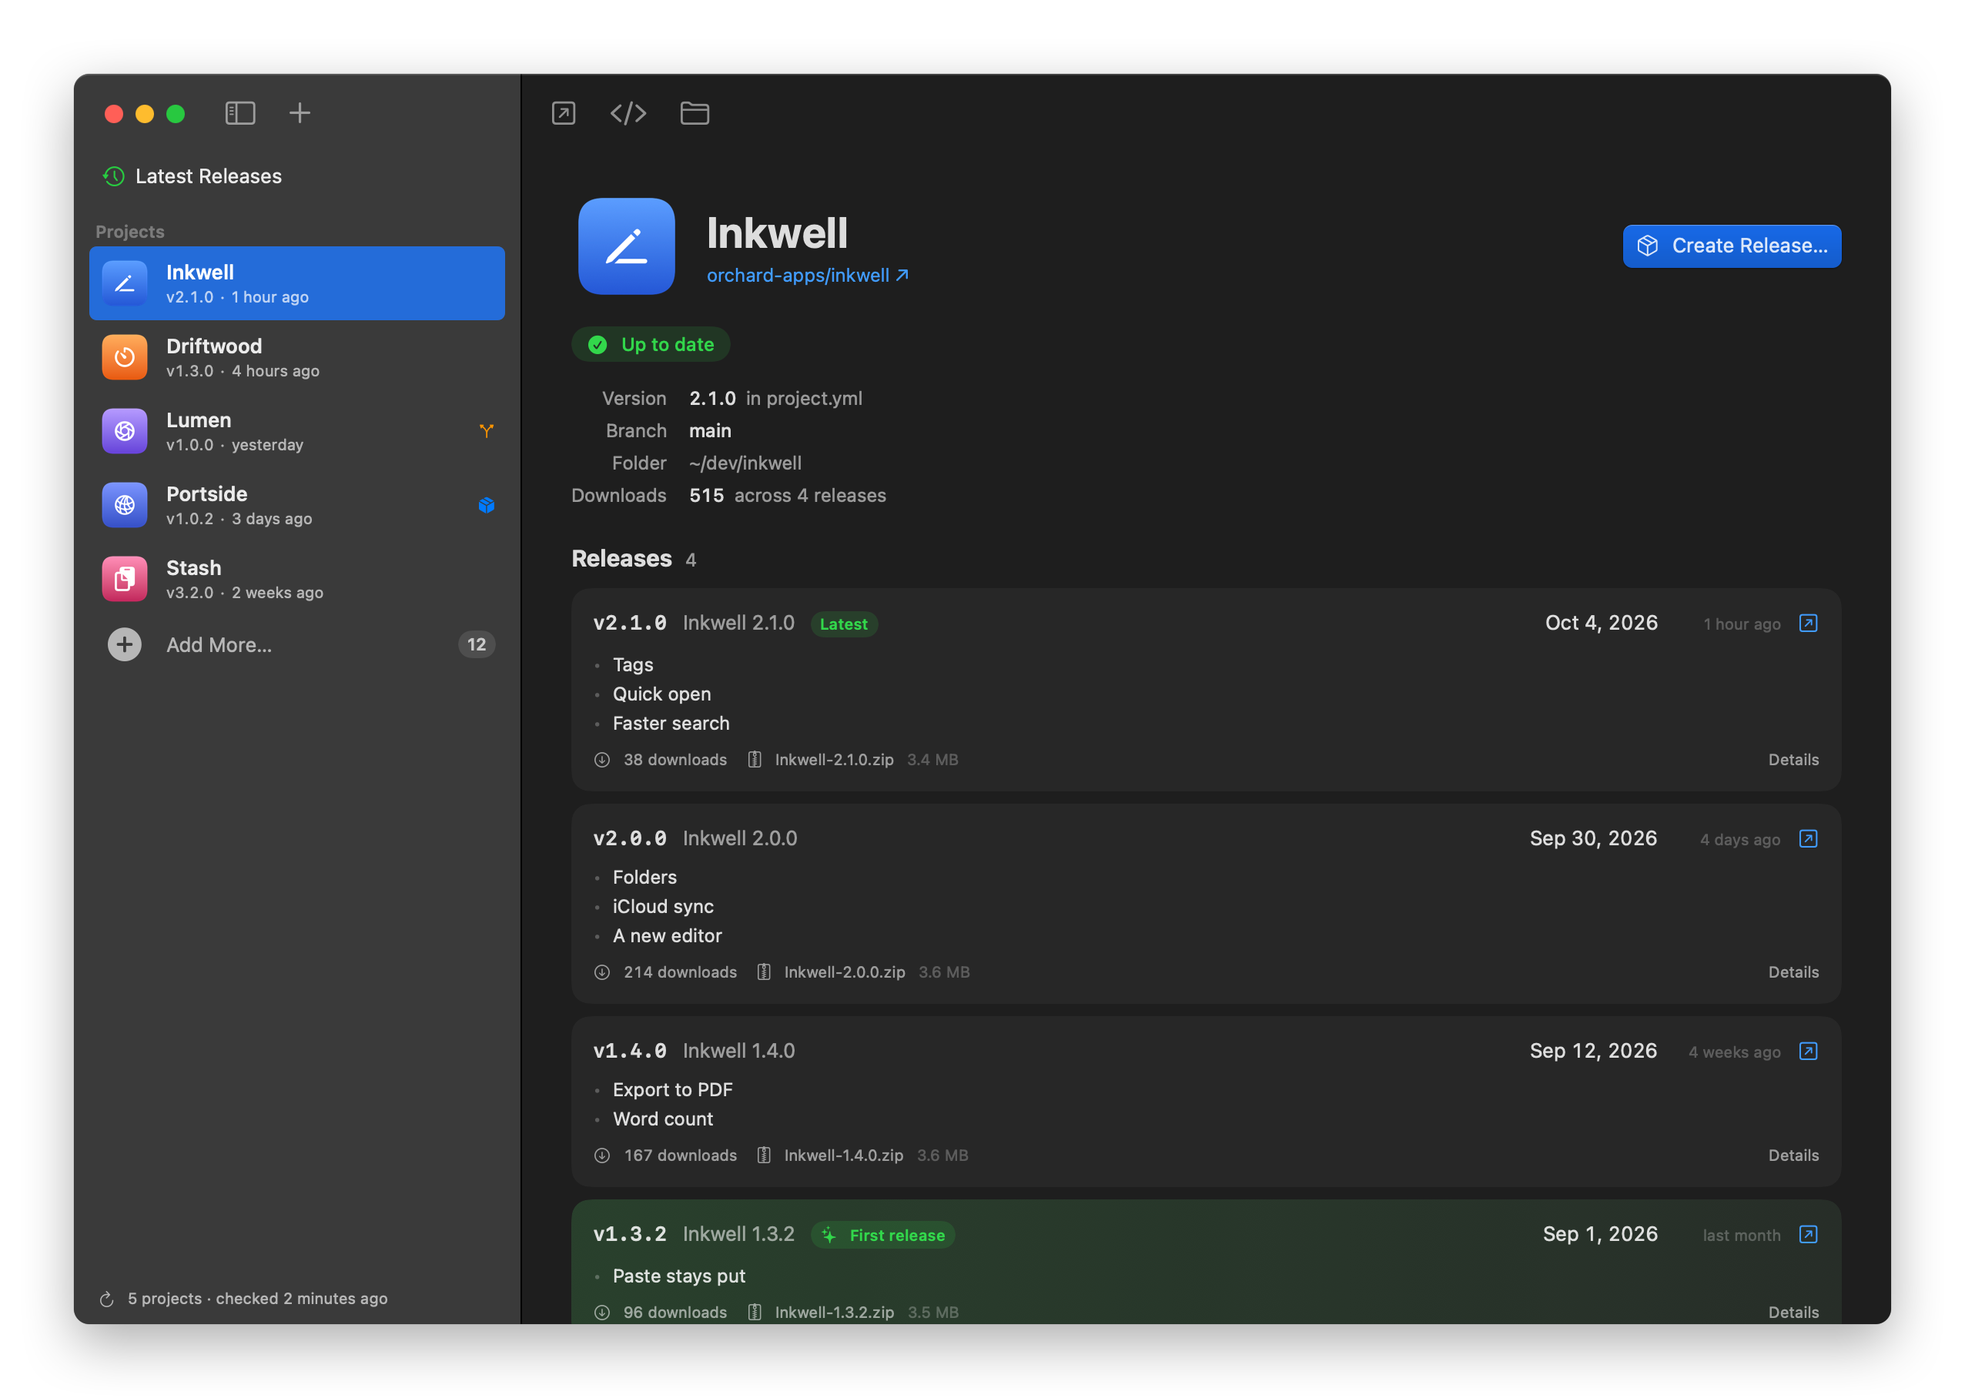
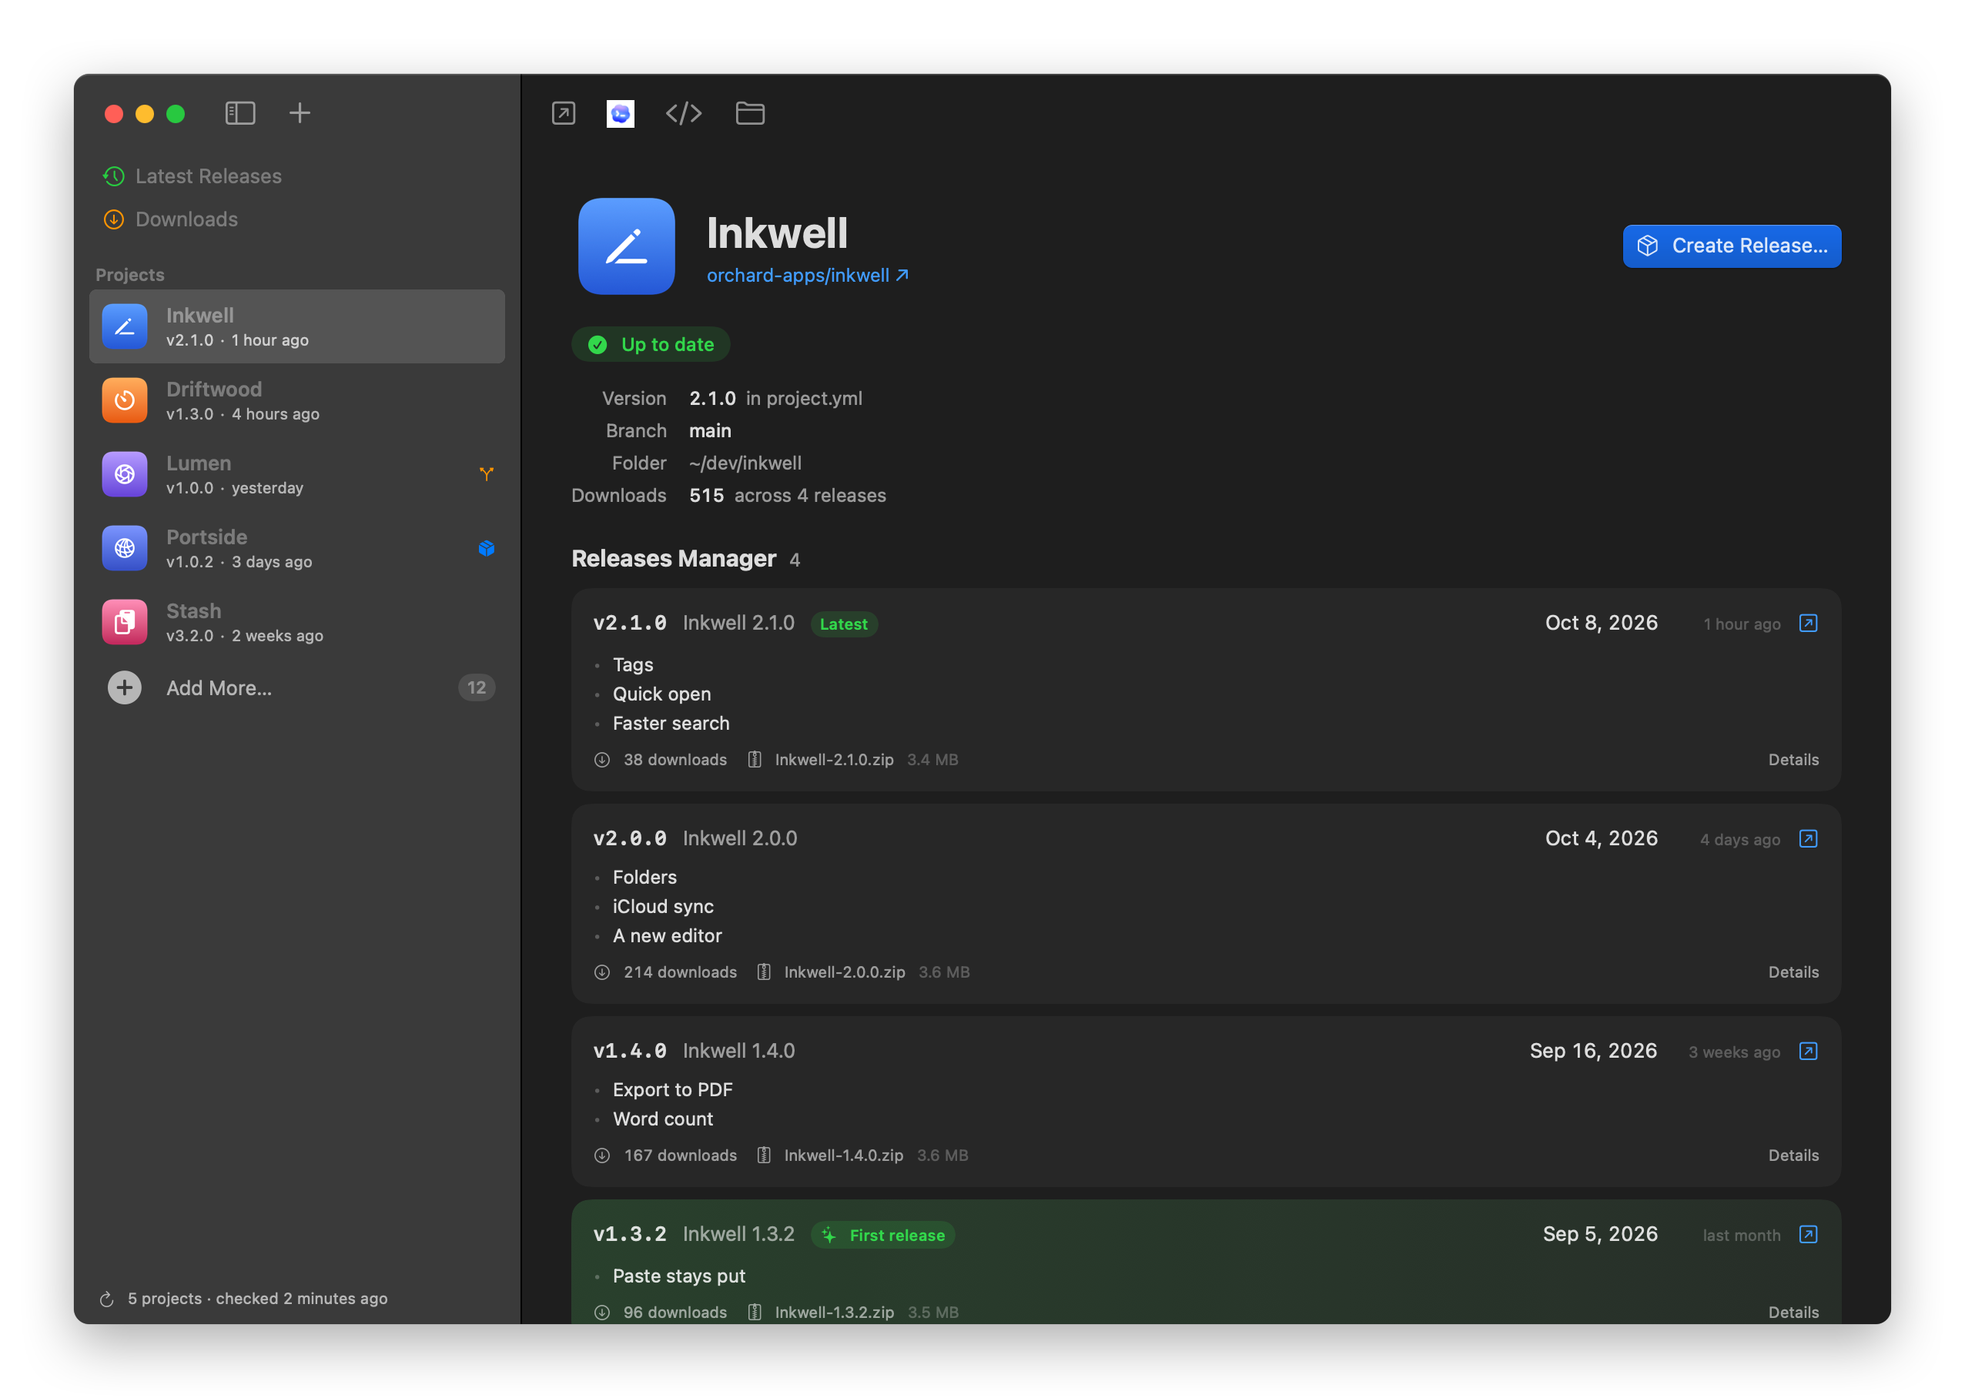
Rename app to Releases Manager

diff --git a/Sources/ReleasesCore/Downloads.swift b/Sources/ReleasesCore/Downloads.swift
@@ -1,6 +1,6 @@
 import Foundation
 
-/// A project's downloads on one day: every release added up, the last time Releases looked that day.
+/// A project's downloads on one day: every release added up, the last time Releases Manager looked that day.
 public struct DownloadSample: Codable, Hashable, Sendable {
   public var date: Date
   public var downloads: Int
@@ -16,7 +16,7 @@ public struct DownloadPoint: Hashable, Sendable {
   /// The start of the day.
   public var day: Date
   public var downloads: Int
-  /// Before Releases saved its first count: a straight line from the launch, at zero, to that count.
+  /// Before Releases Manager saved its first count: a straight line from the launch, at zero, to that count.
   public var isEstimate: Bool
 
   public init(day: Date, downloads: Int, isEstimate: Bool) {
@@ -87,20 +87,20 @@ extension ProjectSnapshot {
     releases.compactMap { $0.isDraft ? nil : $0.publishedAt }.min()
   }
 
-  /// The counts Releases saved, oldest first, or the current one when it hasn't saved any yet.
+  /// The counts Releases Manager saved, oldest first, or the current one when it hasn't saved any yet.
   var downloadCounts: [DownloadSample] {
     if let history = project.downloadHistory, !history.isEmpty { return history }
     guard !releases.isEmpty else { return [] }
     return [DownloadSample(date: project.releasesFetchedAt ?? .now, downloads: totalDownloads)]
   }
 
-  /// The downloads so far at `date`. Nil after the launch but before the first count Releases saved.
+  /// The downloads so far at `date`. Nil after the launch but before the first count Releases Manager saved.
   public func downloads(at date: Date) -> Int? {
     guard let start = downloadsStart, date > start else { return 0 }
     return downloadCounts.last { $0.date <= date }?.downloads
   }
 
-  /// The downloads since `date`, or nil when Releases doesn't know how many there were back then.
+  /// The downloads since `date`, or nil when Releases Manager doesn't know how many there were back then.
   public func downloads(since date: Date) -> Int? {
     downloads(at: date).map { max(totalDownloads - $0, 0) }
   }
@@ -124,12 +124,12 @@ extension [ProjectSnapshot] {
     reduce(0) { $0 + $1.totalDownloads }
   }
 
-  /// When Releases saved its first download count.
+  /// When Releases Manager saved its first download count.
   public var downloadsTrackedSince: Date? {
     compactMap { $0.project.downloadHistory?.first?.date }.min()
   }
 
-  /// The downloads since `date`, or nil when Releases doesn't know how many a project had back then.
+  /// The downloads since `date`, or nil when Releases Manager doesn't know how many a project had back then.
   public func downloads(since date: Date) -> Int? {
     var total = 0
     for project in self {

diff --git a/Sources/ReleasesCLI/Commands.swift b/Sources/ReleasesCLI/Commands.swift
@@ -1,7 +1,7 @@
 import Foundation
 
 enum Commands {
-  static let version = "1.5.0"
+  static let version = "1.6.0"
 
   static let json = Option(name: "--json", help: "Print JSON instead of text.")
   static let refresh = Option(name: "--refresh", help: "Fetch the releases from GitHub even if they were fetched recently.")
@@ -158,7 +158,7 @@ enum Commands {
     ),
     CommandSpec(
       name: "rename",
-      summary: "Give a project another name in Releases. The folder and the app stay as they are.",
+      summary: "Give a project another name in Releases Manager. The folder and the app stay as they are.",
       usage: "releases rename <project> <name> [--reset] [--json]",
       options: [
         Option(name: "--reset", help: "Go back to the name read from the folder."),
@@ -217,7 +217,7 @@ enum Commands {
       Every command accepts --help and --json.
 
       Get started:
-        releases add ~/dev/soundscape      Track a project.
+        releases add ~/dev/tranquillity-maker      Track a project.
         releases list                      See every project and its latest release.
         releases list --waiting            See the projects waiting to ship, the most commits first.
         releases prompt --check --codex   Have an agent check which of them need a release.
@@ -225,13 +225,13 @@ enum Commands {
         releases recent --first            See when each app launched.
         releases downloads                 See how many times each app was downloaded.
         releases discover                  See the apps on this Mac that aren't released yet.
-        releases show soundscape           See all the releases of one project.
-        releases prompt soundscape --bump minor --codex
+        releases show tranquillity-maker           See all the releases of one project.
+        releases prompt tranquillity-maker --bump minor --codex
 
       For agents:
         releases help --json               Every command and option, as JSON.
         releases capabilities --json       What releases can do, and what changed.
-        releases open soundscape --release --bump minor
+        releases open tranquillity-maker --release --bump minor
                                            Show the Create Release sheet in the app, for a human to review.
         Errors go to stderr and exit with 1. The app picks up every change to the list right away.
       """

diff --git a/Sources/ReleasesCLI/CapabilitiesManifest.swift b/Sources/ReleasesCLI/CapabilitiesManifest.swift
@@ -26,7 +26,7 @@ struct CapabilitiesManifest: Encodable {
     capabilities: [
       Capability(
         description: "Track a project folder and list its GitHub releases",
-        command: "releases add ~/dev/soundscape"
+        command: "releases add ~/dev/tranquillity-maker"
       ),
       Capability(
         description: "See which projects have commits or a newer version waiting to ship",
@@ -54,11 +54,11 @@ struct CapabilitiesManifest: Encodable {
       ),
       Capability(
         description: "Print the release prompt for a project, or open it in Codex",
-        command: "releases prompt soundscape --bump minor --codex"
+        command: "releases prompt tranquillity-maker --bump minor --codex"
       ),
       Capability(
-        description: "Show a project in Releases, open it in Codex with --codex, or open its Create Release sheet",
-        command: "releases open soundscape --release --bump minor"
+        description: "Show a project in Releases Manager, open it in Codex with --codex, or open its Create Release sheet",
+        command: "releases open tranquillity-maker --release --bump minor"
       ),
       Capability(
         description: "Learn every command and option as JSON for agents",
@@ -66,6 +66,7 @@ struct CapabilitiesManifest: Encodable {
       )
     ],
     changelog: [
+      Release(version: "1.6.0", date: "2026-10-08", changes: ["Renamed the app to Releases Manager. Existing commands and saved data still work."]),
       Release(
         version: "1.5.0",
         date: "2026-10-07",
@@ -85,7 +86,7 @@ struct CapabilitiesManifest: Encodable {
         version: "1.3.0",
         date: "2026-10-01",
         changes: [
-          "New releases rename to give a project another name in Releases.",
+          "New releases rename to give a project another name in Releases Manager.",
           "releases open --github-desktop opens the folder in GitHub Desktop."
         ]
       ),

diff --git a/Sources/ReleasesApp/DownloadsView.swift b/Sources/ReleasesApp/DownloadsView.swift
@@ -68,9 +68,9 @@ struct DownloadsView: View {
   private func weekHelp(_ released: [ProjectSnapshot]) -> String {
     guard let since = released.downloadsTrackedSince,
           let known = Calendar.current.date(byAdding: .day, value: 7, to: since) else {
-      return "Releases saves the downloads every day, and knows the last 7 days after a week."
+      return "Releases Manager saves the downloads every day, and knows the last 7 days after a week."
     }
-    return "Releases started saving the downloads on \(since.formatted(.dateTime.month(.wide).day())), so it knows the last 7 days from \(known.formatted(.dateTime.month(.wide).day()))."
+    return "Releases Manager started saving the downloads on \(since.formatted(.dateTime.month(.wide).day())), so it knows the last 7 days from \(known.formatted(.dateTime.month(.wide).day()))."
   }
 
   private func chart(_ released: [ProjectSnapshot], series: [DownloadSeries], focused: String?) -> some View {
@@ -118,7 +118,7 @@ struct DownloadsView: View {
     }
     if series.total.contains(where: \.isEstimate) {
       let since = released.downloadsTrackedSince.map { ", since \($0.formatted(.dateTime.month(.wide).day()))" } ?? ""
-      sentences.append("GitHub only keeps the total so far, so Releases saves it every day\(since). The shaded days before that are an estimate, spread evenly from each launch.")
+      sentences.append("GitHub only keeps the total so far, so Releases Manager saves it every day\(since). The shaded days before that are an estimate, spread evenly from each launch.")
     }
     return sentences.joined(separator: " ")
   }

diff --git a/Sources/ReleasesCLI/Output.swift b/Sources/ReleasesCLI/Output.swift
@@ -139,7 +139,7 @@ enum Output {
     }
     columns(rows)
     if shown.contains(where: { days[$0].isEstimate }) {
-      hint("~ is an estimate. GitHub only keeps the total so far, so the days before Releases saved its first count are spread evenly from each launch.")
+      hint("~ is an estimate. GitHub only keeps the total so far, so the days before Releases Manager saved its first count are spread evenly from each launch.")
     }
     if total.count > shown.count {
       hint("Showing the last \(shown.count) of \(total.count) days. Use --json to see them all.")
@@ -296,7 +296,7 @@ struct TimelineJSON: Encodable {
 /// The JSON shape of `releases downloads`.
 struct DownloadsJSON: Encodable {
   var total: Int
-  /// Nil until Releases has a count from a week ago for every project.
+  /// Nil until Releases Manager has a count from a week ago for every project.
   var lastSevenDays: Int?
   var trackedSince: Date?
   var projects: [ProjectDownloadsJSON]
@@ -372,7 +372,7 @@ struct ProjectDownloadsJSON: Encodable {
 /// The JSON shape of a project, flat enough for agents and scripts.
 struct ProjectJSON: Encodable {
   var name: String
-  /// The name read from the folder, when the project has another name in Releases.
+  /// The name read from the folder, when the project has another name in Releases Manager.
   var detectedName: String?
   var path: String
   var isTracked: Bool

diff --git a/Sources/ReleasesApp/ProjectDetailView.swift b/Sources/ReleasesApp/ProjectDetailView.swift
@@ -52,7 +52,7 @@ private struct FoundBanner: View {
       VStack(alignment: .leading, spacing: 2) {
         Text("Not in your list yet")
           .font(.headline)
-        Text("Releases found it in \(folder). Add it to keep an eye on its releases, or hide it if you won't ship it.")
+        Text("Releases Manager found it in \(folder). Add it to keep an eye on its releases, or hide it if you won't ship it.")
           .font(.callout)
           .foregroundStyle(.secondary)
           .fixedSize(horizontal: false, vertical: true)
@@ -198,7 +198,7 @@ private struct Header: View {
   }
 }
 
-/// The project's name. Double-click it to give the project another name, in Releases only.
+/// The project's name. Double-click it to give the project another name, in Releases Manager only.
 private struct ProjectName: View {
   @Environment(AppModel.self) private var model
   let snapshot: ProjectSnapshot
@@ -234,7 +234,7 @@ private struct ProjectName: View {
 
   private var help: String {
     guard canRename else { return "" }
-    guard snapshot.project.displayName != nil else { return "Double-click to rename it in Releases" }
+    guard snapshot.project.displayName != nil else { return "Double-click to rename it in Releases Manager" }
     return "Double-click to rename it. Clear the name to go back to \"\(snapshot.local.name)\"."
   }
 

diff --git a/Sources/ReleasesCLI/ReleasesCommand.swift b/Sources/ReleasesCLI/ReleasesCommand.swift
@@ -220,7 +220,7 @@ struct ReleasesCommand {
     Output.downloads(released, weekAgo: weekAgo)
     reportFetchErrors(snapshots)
     if released.downloads(since: weekAgo) == nil, let since = released.downloadsTrackedSince {
-      Output.hint("Releases saves the downloads every day it fetches them, since \(Output.date(since)). The last 7 days fill in a week after that.")
+      Output.hint("Releases Manager saves the downloads every day it fetches them, since \(Output.date(since)). The last 7 days fill in a week after that.")
     } else {
       Output.hint("Run 'releases downloads <project>' to see each release.")
     }
@@ -445,7 +445,7 @@ struct ReleasesCommand {
     guard let identifier = options.positionals.first else {
       guard targets.isEmpty, !wantsRelease else { throw CLIError.missingProject(command: "open") }
       try AppLink.home.open()
-      try report(options, OpenJSON(opened: "app", project: nil, path: nil, url: AppLink.home.url), "Opened Releases.")
+      try report(options, OpenJSON(opened: "app", project: nil, path: nil, url: AppLink.home.url), "Opened Releases Manager.")
       return
     }
 

diff --git a/Sources/ReleasesCLI/Arguments.swift b/Sources/ReleasesCLI/Arguments.swift
@@ -103,9 +103,9 @@ enum CLIError: LocalizedError {
   var errorDescription: String? {
     switch self {
     case .missingProject(let command):
-      "Add a project name. Example: releases \(command) soundscape"
+      "Add a project name. Example: releases \(command) tranquillity-maker"
     case .missingFolder:
-      "Add a folder. Example: releases add ~/dev/soundscape"
+      "Add a folder. Example: releases add ~/dev/tranquillity-maker"
     case .unknownCommand(let command):
       "Unknown command '\(command)'. Run 'releases help' to see the commands."
     case .unknownOption(let option, let command):
@@ -123,7 +123,7 @@ enum CLIError: LocalizedError {
     case .couldNotOpen:
       "macOS couldn't open it."
     case .missingName:
-      "Add the new name, or --reset. Example: releases rename factorylog \"Factory Log\""
+      "Add the new name, or --reset. Example: releases rename work-tracebook \"Work Tracebook\""
     }
   }
 }

diff --git a/Sources/ReleasesCore/Models.swift b/Sources/ReleasesCore/Models.swift
@@ -1,6 +1,6 @@
 import Foundation
 
-/// A GitHub repository, like `flaviocopes/soundscape`.
+/// A GitHub repository, like `flaviocopes/tranquillity-maker`.
 public struct GitHubRepository: Codable, Hashable, Sendable, CustomStringConvertible {
   public var owner: String
   public var name: String
@@ -102,7 +102,7 @@ public struct Release: Codable, Hashable, Sendable, Identifiable {
 public struct TrackedProject: Codable, Hashable, Sendable, Identifiable {
   public var path: String
   public var addedAt: Date
-  /// A name given in Releases, shown instead of the one read from the folder. It changes nothing in the project.
+  /// A name given in Releases Manager, shown instead of the one read from the folder. It changes nothing in the project.
   public var displayName: String?
   public var releases: [Release]?
   public var releasesFetchedAt: Date?

diff --git a/Sources/ReleasesApp/ContentView.swift b/Sources/ReleasesApp/ContentView.swift
@@ -47,7 +47,7 @@ struct ContentView: View {
       AddProjectsSheet()
     }
     .alert(
-      "Releases",
+      "Releases Manager",
       isPresented: Binding(
         get: { model.errorMessage != nil },
         set: { if !$0 { model.errorMessage = nil } }
@@ -85,7 +85,7 @@ private struct EmptyStateView: View {
     ContentUnavailableView {
       Label("Drop a project folder here", systemImage: "shippingbox")
     } description: {
-      Text("Releases finds the GitHub repo and the version, and lists every release.\nAgents can add projects with `releases add <folder>`.")
+      Text("Releases Manager finds the GitHub repo and the version, and lists every release.\nAgents can add projects with `releases add <folder>`.")
     } actions: {
       Button("Add Projects…") {
         model.showsAddProjects = true

diff --git a/Sources/ReleasesCore/AppLink.swift b/Sources/ReleasesCore/AppLink.swift
@@ -6,7 +6,7 @@ public enum AppLinkError: LocalizedError, Sendable {
   public var errorDescription: String? {
     switch self {
     case .appNotFound:
-      "The Releases app didn't open. Build it with ./Scripts/build-app.sh, which also registers its releases:// links."
+      "The Releases Manager app didn't open. Build it with ./Scripts/build-app.sh, which also registers its releases:// links."
     }
   }
 }
@@ -85,6 +85,7 @@ public enum AppLink: Hashable, Sendable {
 
   /// Whether the built app is running, so a link can reach it without launching it.
   public static var isAppRunning: Bool {
-    Shell.run("/usr/bin/pgrep", ["-x", "Releases"]).succeeded
+    Shell.run("/usr/bin/pgrep", ["-x", "Releases Manager"]).succeeded
+      || Shell.run("/usr/bin/pgrep", ["-x", "Releases"]).succeeded
   }
 }

diff --git a/Scripts/render-banner.swift b/Scripts/render-banner.swift
@@ -7,7 +7,7 @@
 import AppKit
 import SwiftUI
 
-let name = "Releases"
+let name = "Releases Manager"
 let tagline = "Every release of your Mac apps,\nand what's waiting to ship."
 let chips = ["Latest releases", "Create Release", "A CLI for agents"]
 let size = CGSize(width: 1280, height: 560)
@@ -57,7 +57,7 @@ struct Banner: View {
           .frame(width: 132, height: 132)
           .shadow(color: .black.opacity(0.35), radius: 18, y: 10)
         Text(name)
-          .font(.system(size: 76, weight: .bold))
+          .font(.system(size: 52, weight: .bold))
           .tracking(-1.8)
           .foregroundStyle(.white)
           .padding(.top, 26)
